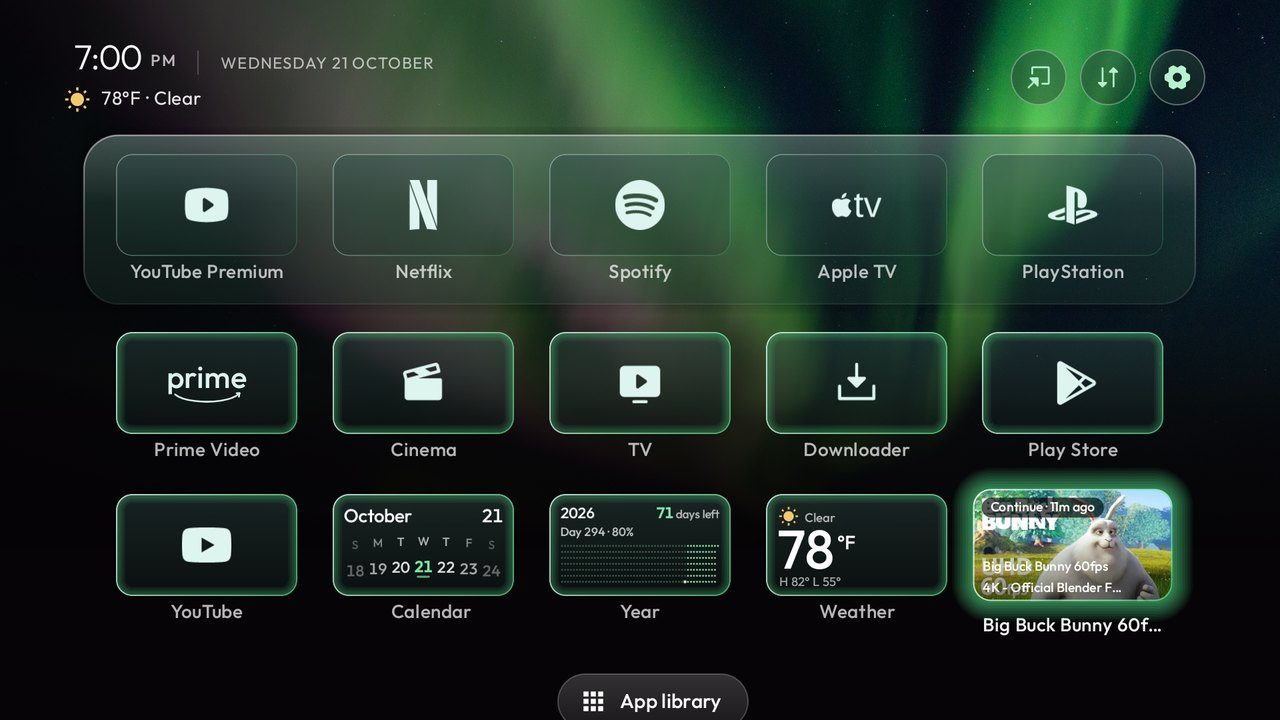
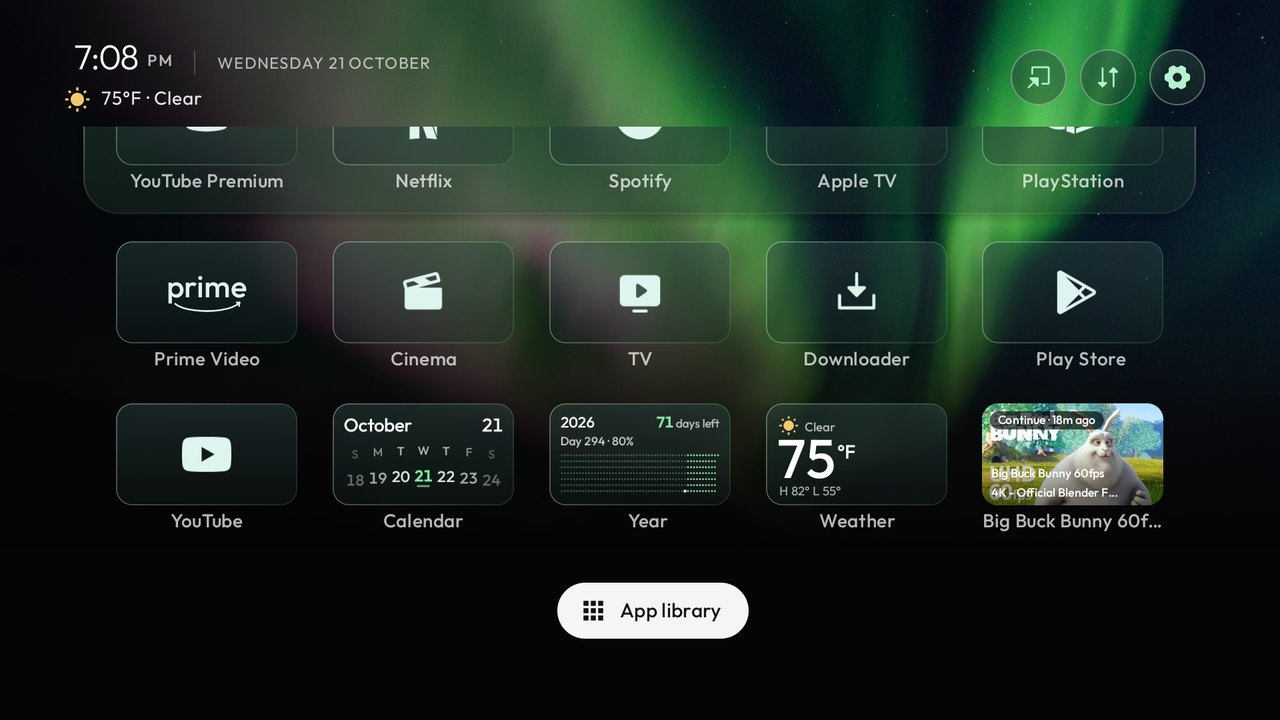
Show the theme halo on every focused tile under the dock (#4)

diff --git a/launcher/app/src/main/java/com/gathin/tvhome/AppIcon.java b/launcher/app/src/main/java/com/gathin/tvhome/AppIcon.java
@@ -23,17 +23,9 @@ final class AppIcon extends Drawable {
     private final RectF panel = new RectF(1, 1, 319, 179);
     private final Drawable glyph;
     private final boolean prime;
-    private final Paint glowRim = new Paint(Paint.ANTI_ALIAS_FLAG);
-    private final Paint glowInner = new Paint(Paint.ANTI_ALIAS_FLAG);
-    private final RectF innerPanel = new RectF();
-    /** Rows under the dock and the widget tiles share a lit edge with a soft accent glow just inside it. */
-    private boolean outlined;
-    private final int accent;
 
     AppIcon(Context ctx, String pkg, Drawable fallback, boolean light, int accent) {
         int id = glyph(pkg);
-        this.accent = Tint.accent(accent);
-        outlined = pkg.equals("widget");
         prime = pkg.equals("com.amazon.amazonvideo.livingroom");
         Drawable source = id != 0 ? ctx.getDrawable(id) : fallback;
         if (source instanceof AdaptiveIconDrawable) source = ((AdaptiveIconDrawable) source).getForeground();
@@ -61,19 +53,6 @@ final class AppIcon extends Drawable {
         rim.setShader(new LinearGradient(0, 0, 320, 180,
                 light ? 0x99FFFFFF : Tint.withAlpha(ink, 0x80),
                 Tint.withAlpha(accent, 0x35), Shader.TileMode.CLAMP));
-        glowRim.setStyle(Paint.Style.STROKE);
-        glowRim.setStrokeWidth(2.6f);
-        glowRim.setShader(new LinearGradient(0, 0, 320, 180,
-                light ? 0xE6FFFFFF : Tint.withAlpha(ink, 0xE0),
-                Tint.withAlpha(this.accent, 0xC0), Shader.TileMode.CLAMP));
-        glowInner.setStyle(Paint.Style.STROKE);
-        glowInner.setStrokeWidth(3.6f);
-    }
-
-    void setOutlined(boolean outlined) {
-        if (this.outlined == outlined) return;
-        this.outlined = outlined;
-        invalidateSelf();
     }
 
     void setFocused(boolean focused) {
@@ -104,17 +83,7 @@ final class AppIcon extends Drawable {
         c.translate(b.left, b.top);
         c.scale(b.width() / 320f, b.height() / 180f);
         c.drawRoundRect(panel, 28, 28, material);
-        if (outlined) {
-            for (int i = 0; i < 4; i++) {
-                float inset = 3f + i * 3.4f;
-                innerPanel.set(panel.left + inset, panel.top + inset, panel.right - inset, panel.bottom - inset);
-                glowInner.setColor(Tint.withAlpha(accent, Math.round(0x46 * (1f - i / 4f))));
-                c.drawRoundRect(innerPanel, 28 - inset, 28 - inset, glowInner);
-            }
-            c.drawRoundRect(panel, 28, 28, glowRim);
-        } else {
-            c.drawRoundRect(panel, 28, 28, rim);
-        }
+        c.drawRoundRect(panel, 28, 28, rim);
         if (prime) {
             c.drawText("prime", 160, 99, mark);
             mark.setStyle(Paint.Style.STROKE);

diff --git a/launcher/app/src/main/java/com/gathin/tvhome/AppAdapter.java b/launcher/app/src/main/java/com/gathin/tvhome/AppAdapter.java
@@ -413,11 +413,10 @@ public class AppAdapter extends RecyclerView.Adapter<RecyclerView.ViewHolder> {
                 String ago = RecentArt.shortAgo(now - (thumb != null ? Math.max(when, Thumbs.savedAt(ctx, a.pkg)) : when));
                 Drawable base = thumb != null ? thumb : glassIcons || a.banner == null || a.banner.getConstantState() == null
                         ? new AppIcon(ctx, a.pkg, a.icon, light, themeAccent) : a.banner.getConstantState().newDrawable().mutate();
-                if (base instanceof AppIcon) ((AppIcon) base).setOutlined(true);
                 String pill = ctx.getString(thumb != null ? R.string.recent_continue : R.string.recent_recent, ago);
                 zone.add(new Entry(Entry.RECENT, title != null ? title : a.label,
                         new ComponentName(a.pkg, "recent/" + a.component.getClassName()),
-                        a.component, new RecentArt(ctx, base, pill, title, themeAccent), a.icon, null, a.ambient, 0));
+                        a.component, new RecentArt(ctx, base, pill, title), a.icon, null, a.ambient, 0));
                 break;
             }
         }
@@ -606,10 +605,7 @@ public class AppAdapter extends RecyclerView.Adapter<RecyclerView.ViewHolder> {
         boolean glassTile = glassIcons && (e.kind == Entry.APP || e.kind == Entry.INPUT || e.kind == Entry.HOME_SETTINGS);
         if (glassTile && e.glassArt == null) e.glassArt = new AppIcon(ctx, e.pkg, e.icon, light, themeAccent);
         Drawable art = glassTile ? e.glassArt : e.banner;
-        if (art instanceof AppIcon) {
-            ((AppIcon) art).setFocused(focused);
-            ((AppIcon) art).setOutlined(e.kind == Entry.WIDGET || !(dockRow && position < dockSize));
-        }
+        if (art instanceof AppIcon) ((AppIcon) art).setFocused(focused);
         boolean bare = glassTile || e.kind == Entry.WIDGET || e.kind == Entry.RECENT;
         h.card.setBackground(bare || art != null && art.getOpacity() == PixelFormat.OPAQUE ? null : h.cardBackground);
         if (art != null) {

diff --git a/launcher/app/src/main/java/com/gathin/tvhome/RecentArt.java b/launcher/app/src/main/java/com/gathin/tvhome/RecentArt.java
@@ -27,19 +27,13 @@ final class RecentArt extends Drawable {
     private final Paint fill = new Paint(Paint.ANTI_ALIAS_FLAG);
     private final TextPaint text = new TextPaint(Paint.ANTI_ALIAS_FLAG);
     private final RectF box = new RectF();
-    private final Paint rim = new Paint(Paint.ANTI_ALIAS_FLAG);
-    private final RectF panel = new RectF(1, 1, 319, 179);
     private StaticLayout titleLayout;
 
-    RecentArt(Context ctx, Drawable base, String pill, String title, int accent) {
+    RecentArt(Context ctx, Drawable base, String pill, String title) {
         this.base = base;
         this.pill = pill;
         this.title = title;
         text.setTypeface(ctx.getResources().getFont(R.font.outfit_medium));
-        // The same lit edge the other row-two and widget tiles have, so a picture tile sits in the row.
-        rim.setStyle(Paint.Style.STROKE);
-        rim.setStrokeWidth(2.6f);
-        rim.setShader(new LinearGradient(0, 0, 320, 180, 0xE0FFFFFF, Tint.withAlpha(Tint.accent(accent), 0xC0), Shader.TileMode.CLAMP));
     }
 
     @Override public void draw(Canvas c) {
@@ -68,7 +62,6 @@ final class RecentArt extends Drawable {
             titleLayout.draw(c);
             c.restore();
         }
-        if (!(base instanceof AppIcon)) c.drawRoundRect(panel, 28, 28, rim);
         text.setTextSize(21);
         text.setTypeface(Typeface.create(text.getTypeface(), Typeface.NORMAL));
         float pw = text.measureText(pill) + 28;

diff --git a/launcher/app/src/main/java/com/gathin/tvhome/MainActivity.java b/launcher/app/src/main/java/com/gathin/tvhome/MainActivity.java
@@ -1247,8 +1247,7 @@ public class MainActivity extends Activity implements AppAdapter.TileListener {
     public void onTileFocused(int position, View card) {
         lastFocused = position;
         lastFocusedKey = adapter.keyAt(position);
-        ImageView tileArt = card.findViewById(R.id.banner);
-        glass.setVisibility(tileArt != null && tileArt.getDrawable() instanceof AppIcon ? View.INVISIBLE : View.VISIBLE);
+        glass.setVisibility(View.VISIBLE);   // the dock's own light hides the halo there (setSuppressed below)
         // Focus restored before the first layout (cold start): the tile has no size yet, and the glass
         // would be sized to 2*pad. Run again once the tile is laid out.
         if (card.getWidth() == 0) {

diff --git a/launcher/app/src/main/java/com/gathin/tvhome/GlassView.java b/launcher/app/src/main/java/com/gathin/tvhome/GlassView.java
@@ -8,7 +8,7 @@ import android.util.AttributeSet;
 import android.view.View;
 
 /**
- * A faint local glow for original artwork and widget tiles. Glass app tiles draw their own focus light.
+ * A faint local glow for original artwork and widget tiles.
  * One instance follows the focused tile with spring animations.
  */
 public class GlassView extends View {

diff --git a/README.md b/README.md
@@ -25,7 +25,7 @@ A glass launcher with 16 themes, an Apple-style magnifying dock and optional wid
 
 ### Glass dock
 
-The dock magnifies the app under focus, and a soft light in the theme's colour flows along it. Row-two and widget tiles share one lit, glowing outline, so the whole home reads as one piece.
+The dock magnifies the app under focus, and a soft light in the theme's colour flows along it. Every tile under the dock lights the same soft theme-coloured glow when you focus it, so the whole home behaves as one piece.
 
 ![The home screen: a glass dock with five apps, a row of apps, and a widget row with calendar, year, weather and a continue-watching tile](docs/screenshots/features/dock.jpg)
 
